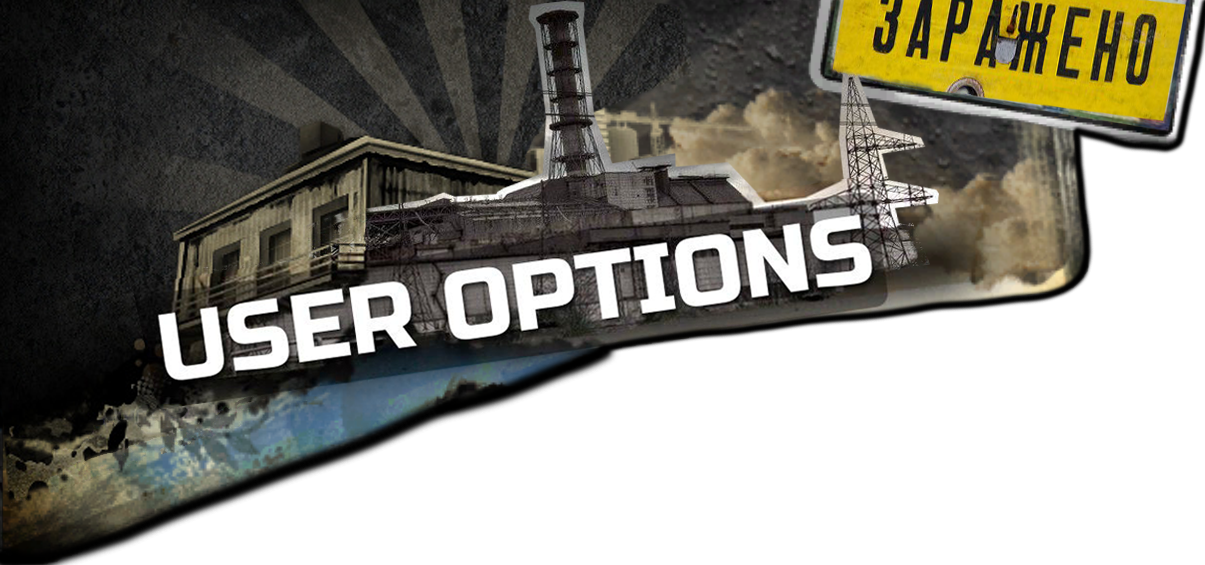
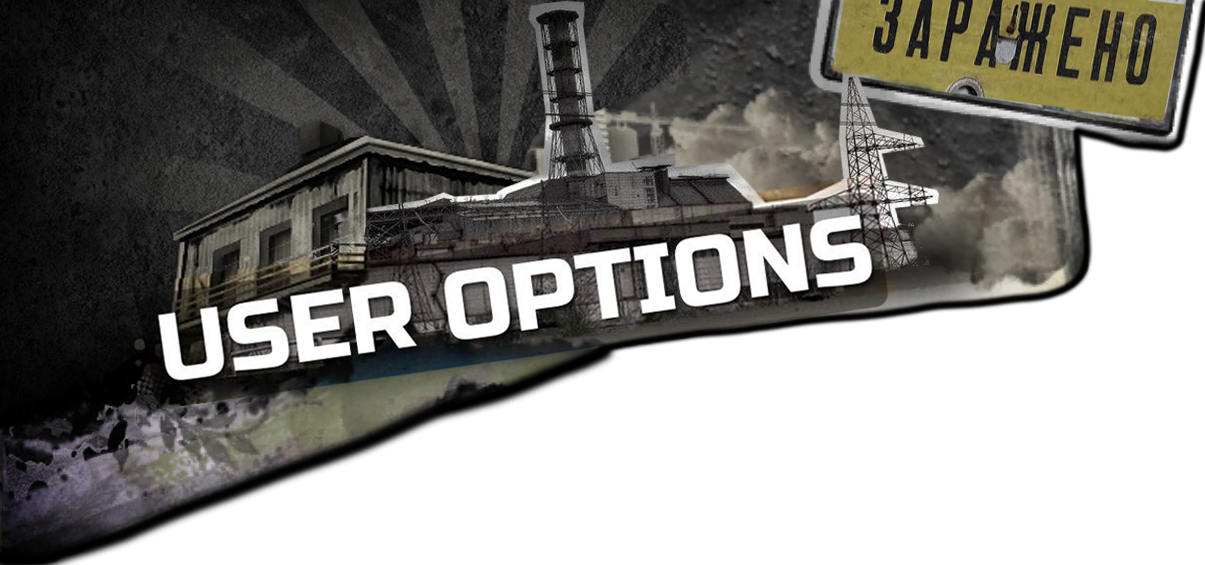
style: textures update

diff --git a/src/modules/menu/styles.css b/src/modules/menu/styles.css
@@ -4,19 +4,17 @@
     display: grid;
     grid-template-columns: 1fr 1fr 1fr 1fr 1fr;
     grid-template-areas:
-        "head head head head head"
-        "nav nav desc desc desc"
+        "nav nav head head head"
         "nav nav desc desc desc"
         "nav nav desc desc desc"
         "nav nav desc desc desc";
     height: 70%;
-    top: 10%;
+    top: 20%;
     width: 98%;
     left: 1%;
     font-family: 'Russo One', sans-serif;
     font-size: 3rem;
 }
-
 
 .grid-header {
     grid-area: head;
@@ -35,12 +33,22 @@
 
 .grid-nav {
     grid-area: nav;
-    background-color: #ffa08c;
     transform: rotate(-5deg);
     z-index: 3;
+    padding: 3rem;
+}
+
+.menuBackground {
+    max-width: 100%;
+    max-height: 100%;
+}
+
+.textBackground {
+    max-width: 100%;
+    max-height: 100%;
+    width: 100%;
 }
 
 .grid-desc {
     grid-area: desc;
-    background-color: #ffff64;
 }

diff --git a/src/modules/menu/index.tsx b/src/modules/menu/index.tsx
@@ -1,5 +1,7 @@
 import React, { ReactElement } from 'react';
 import './styles.css' 
+import MenuImg from './../../images/menu.png'
+import TextImg from './../../images/text.png'
 
 interface MessageProps {
     message: string;
@@ -11,9 +13,13 @@ function Menu(props: MessageProps):ReactElement {
         <div className='module-contact-container'>
             <div className='grid-header'>USER OPTIONS</div>
 
-            <div className='grid-nav'>a</div>
+            <div className='grid-nav'>
+                <img className='menuBackground' src={MenuImg} alt='menu'/>
+            </div>
 
-            <div className='grid-desc'>d</div>
+            <div className='grid-desc'>
+                <img className='textBackground' src={TextImg} alt='menu'/>
+            </div>
         </div>
     );
 };

diff --git a/src/modules/ticker/styles.css b/src/modules/ticker/styles.css
@@ -39,7 +39,7 @@
     position: absolute;
     height: 4rem;
     z-index: 2;
-    background-size: 0.15rem 0.15rem !important;
+    background-size: 0.2rem 0.2rem !important;
     background: url(./../../images/led_bg.png);
     bottom: 0;
 }
@@ -58,9 +58,9 @@
     display: inline-block;
     padding-left: 100%;
     left: 0%;
-    -webkit-animation: scroll 41s infinite linear;
-    -moz-animation: scroll 41s infinite linear;
-    animation: scroll 41s infinite linear;
+    -webkit-animation: scroll 38s infinite linear;
+    -moz-animation: scroll 38s infinite linear;
+    animation: scroll 38s infinite linear;
     height: 2.6rem;
     bottom: 1.2rem;
 }

diff --git a/src/App.css b/src/App.css
@@ -62,5 +62,6 @@
   top: 0;
   z-index: 2;
   left: 0;
-  height: 35%;
+  max-width: 60%;
+  max-height: 35%;
 }
